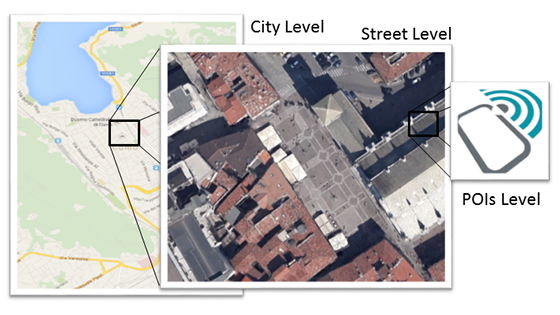
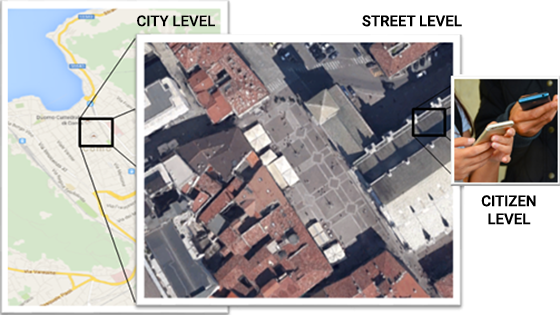
All done but bizdev

diff --git a/index.html b/index.html
@@ -144,7 +144,7 @@
                                 <img class="img-responsive" src="img/Urban.jpg"><br/>
                                 <h3 class="heading">COMPETITIVE ADVANTAGES</h3>
                                 <p>
-                                    CrowdInsights provides comprehensive &amp; cross-sourced data, it integrates data collected from IoT sensors, mobile phones and social media to generate comprehensive, multi-scale views on urban dynamics. Its solutions includes both real-time &amp; post-hoc results.<br/>CrowdInsights offers data <strong>analytics</strong> and <strong>actionable insights</strong> to urban administrators, public security officers, commerce operators, shops managers, tourist offices and agencies, events managers.
+                                    CrowdInsights provides comprehensive &amp; cross-sourced data: it integrates data collected from IoT sensors, mobile phones and social media to generate in-depth, multi-scale views on urban dynamics. Its solutions include both real-time &amp; post-hoc results.<br/> CrowdInsights offers data <strong>analytics</strong> and <strong>actionable insights</strong> to public administrators (urban planners, security officers), tourist and culture offices and agencies, events managers, commerce districts.
                                 </p>
                             </div>
 
@@ -153,13 +153,13 @@
                                 <h3 class="heading">MULTI-SCALE PERSPECTIVE</h3>
                                 <p>
                                   CrowdInsights supplies perspectives of city dynamics at different levels based on several types of data.<br/>
-                                  <strong>CITY LEVEL</strong>: people demographics using Mobile Telco Data and Social Media. <strong>STREET LEVEL</strong>: counting of people &amp; trajectories using commercial IoT sensors. <strong>POIs LEVEL</strong>: provides insights on how people pass, enter and stay, and what they do using IoT, Social Media and an App, offering personalized information, city loyalty cards, digital coupons.
+                                  <strong>CITY LEVEL</strong>: people presences in the city and their demographics and provenience using Mobile Telco Data. <strong>STREET LEVEL</strong>: people counting &amp; trajectories using commercial, privacy-preserving IoT sensors distinguishing people and directions. <strong>CITIZEN LEVEL</strong>: provides insights on how and why people populate the city from Social Media and personal Apps.
                               </p>
                           </div>
                           <div class="col-md-4" data-animate="fadeInUp">
                             <img class="img-responsive" src="img/Event.jpg"><br/>
                             <h3 class="heading">TARGET MARKETS</h3>
-                            <p>CrowdInsights addresses 3 different scenarios: Event Management + evaluation, Territorial Marketing &amp; geo-marketing, Data-driven Public Administration. </p>
+                            <p>CrowdInsights addresses 3 main different scenarios: Data-driven Public Administration, Event Management + evaluation, Territorial Marketing + ppt </p>
                         </div>
 
                     </div>
@@ -188,7 +188,7 @@
 
                             <div class="col-md-8 col-md-offset-2">
 
-                                <p class="text-large text-thin"  data-animate="fadeInUp">CrowdInsights provides decision makers with reliable predictions and actionable insights on the composition, dynamics, and intentions of crowds in the urban environment. Understanding people’s behavior is crucial when, for example, a city manager has to decide opening times of a pedestrian area, or when commerce operators want to deliver effective marketing campaigns.  CrowdInsights exploits many data sources, including Apps and Mobile Telco data, Social Media, and simple IoT sensors in the city areas and shops.</p></br>
+                            <p class="text-large text-thin"  data-animate="fadeInUp">CrowdInsights provides decision makers with reliable predictions and actionable insights on the composition, dynamics, and intentions of crowds in the urban environment. Understanding people’s behavior is crucial when, for example, a city manager has to decide opening times of a pedestrian area, or when commerce districts want to deliver effective marketing campaigns. CrowdInsights makes available, in a privacy-preserving way, the pervasiveness and velocity of modern data-driven technologies in order to dynamically and continuously support urban stakeholders in understanding their city.</p></br>
 
                                 <p   data-animate="fadeInUp"><img src="img/Product_Dashboard.png" alt="" class="img-responsive"></p>
 
@@ -220,9 +220,9 @@
                             <li class="item">
                                 <div class="testimonial same-height-always">
                                     <div class="text">
-                                        <a href="http://www.telecomitalia.com/tit/en.html"><img class="img-responsive" src="img/TIM.jpg"></a><br/>
+                                        <a href="http://www.telecomitalia.com/tit/en.html"><img class="img-responsive" src="img/TIM.png"></a><br/>
                                         <p>
-                                            <a href="http://www.telecomitalia.com/tit/en.html">TIM (Telecom Italia)</a> is the largest telecommunications company in Italy. The <a href="http://jol.telecomitalia.com/jolskil/">Semantics and Knowledge Innovation Lab (SKIL)</a> focuses on Big Data and Data Mining, while the <a href="http://jol.telecomitalia.com/jolscube/en/">Smart Social Spaces Lab</a>'s main topics are technologies and services for “smart” interaction between people and environments.
+                                            <a href="http://www.telecomitalia.com/tit/en.html">TIM (Telecom Italia)</a> is the largest telecommunications company in Italy. It leads the project from Trento and contributes with territorial big data provisioning &amp; analytics, and with services for the “smart” interaction between people and their surrounding environment.
                                         </p>
                                     </div>
                                 </div>
@@ -231,7 +231,7 @@
                                 <div class="testimonial same-height-always">
                                     <div class="text">
                                         <a href="http://www.fluxedo.com/"><img class="img-responsive" src="img/Fluxedo.png"></a><br/>
-                                        <p><a href="http://www.fluxedo.com/">Fluxedo</a> is an Italian hi-tech startup on socialmedia analysis, realtime bigdata, and social planning. Fluxedo operates within the scientific park ComoNext and with the support of the incubator Polihub. Fluxedo will also act as "Business Champion" for the CrowdInsights project.
+                                        <p><a href="http://www.fluxedo.com/">Fluxedo</a> is an Italian hi-tech startup operating within the scientific park ComoNext, with the support of the PoliHub incubator. Fluxedo brings to CrowdInsights its expertise in IoT deployments, real-time data streaming and management, social-media analysis.
                                         </p>
                                     </div>
                                 </div>
@@ -240,7 +240,7 @@
                                 <div class="testimonial same-height-always">
                                     <div class="text">
                                         <a href="https://www.kpn.com/"><img class="img-responsive" src="img/KPN.png"></a><br/>
-                                        <p><a href="https://www.kpn.com/">KPN</a> is a Dutch landline and mobile telecommunications company. KPN makes available to the project its LoRa network and hundreds of LoRa-compatible sensors, which allow monitoring of location by GPS, motion, plus other environmental properties and storage of the observations in its cloud.
+                                        <p><a href="https://www.kpn.com/">KPN</a> is a Dutch landline &amp; mobile telco. KPN makes available to the project its LoRa network and hundreds of compatible sensors, which allow the monitoring of location, motion of people in the city and the collection and storage of environmental properties.
                                         </p>
                                     </div>
                                 </div>
@@ -262,7 +262,7 @@
                                 <div class="testimonial same-height-always">
                                     <div class="text">
                                        <a href="http://fbk.eu"><img class="img-responsive" src="img/FBK.png"></a><br/>
-                                       <p><a href="http://fbk.eu">Fondazione Bruno Kessler (FBK)</a> is a private non‐profit research center working for the public interest. The research group involved within CrowdInsights is <a href="http://i3.fbk.eu">i3 Intelligent Interfaces and Interaction</a>, whose scientific focus is on technologies that facilitate human communication and interaction.
+                                       <p><a href="http://fbk.eu">Fondazione Bruno Kessler (FBK)</a> is a private non‐profit research center working for the public interest. The <a href="http://i3.fbk.eu">i3 Intelligent Interfaces and Interaction</a> group of FBK contributes by focusing on user-centric design and on the facilitation of human-computer interaction, to make our solution more effective for the customers.
                                        </p>
                                    </div>
                                </li>
@@ -278,7 +278,7 @@
                                 <div class="testimonial same-height-always">
                                     <div class="text">
                                         <a href="http://www.tudelft.nl"><img class="img-responsive" src="img/TUDelft.png"></a><br/>
-                                        <p><a href="http://www.tudelft.nl">TU Delft</a> is regularly ranked in the top 15 technical universities in the world. TU Delft is the largest and oldest Dutch public technical university in the Netherlands. Within CrowdInsights, <a href="http://www.wis.ewi.tudelft.nl/">Tu Delft</a> will act as a bridge to Amsterdam and bring crowd movement/tracking algorithms expertise.
+                                        <p><a href="http://www.tudelft.nl">TU Delft</a> is the largest and oldest Dutch public technical university in the Netherlands. TU Delft is regularly ranked in the top 15 technical universities in the world. Within CrowdInsights, <a href="http://www.wis.ewi.tudelft.nl/">Tu Delft</a> will act as a bridge to Amsterdam and bring crowd movement/tracking algorithms expertise.
                                         </p>
                                     </div>
                                 </div> 
@@ -303,20 +303,20 @@
                             </li>
                             <li class="item">
                                 <div class="testimonial same-height-always">
-                                 <a href="http://www.bassanodelgrappa.gov.it/"><img class="img-responsive" src="img/Bassano.png"></a><br/>
+                                 <a href="http://www.ams-institute.org/home/"><img class="img-responsive" src="img/AMS.png"></a><br/>
                              </div>
                          </li>
                          <li class="item">
                             <div class="testimonial same-height-always">
-                             <a href="http://www.ams-institute.org/home/"><img class="img-responsive" src="img/AMS.png"></a><br/>
+                             <a href="http://www.bassanodelgrappa.gov.it/"><img class="img-responsive" src="img/Bassano.png"></a><br/>
                          </div>
                      </li>
                  </ul> <!-- /.owl-carousel -->
              </div> <!-- /.12 -->
 
-             <p class="lead">CrowdInsights is an Innovation Activity supported by <a href="www.eitdigital.eu">EIT Digital</a>, a <a href="https://eit.europa.eu/activities/innovation-communities">KIC</a> of the <a href="https://eit.europa.eu/">EIT</a>, a body of the European Union.</p>
+             <p class="lead">CrowdInsights is an Innovation Activity supported by <a href="www.eitdigital.eu">EIT Digital</a>,<br/>a <a href="https://eit.europa.eu/activities/innovation-communities">KIC</a> of the <a href="https://eit.europa.eu/">EIT</a>, a body of the European Union.</p>
 
-             <img class="img-responsive" src="img/Euflag.jpg"><br/>
+             <img class="img-responsive" src="img/EITDigital.png"><br/>
 
          </div> <!-- /.container -->
      </div><!-- /.section -->
